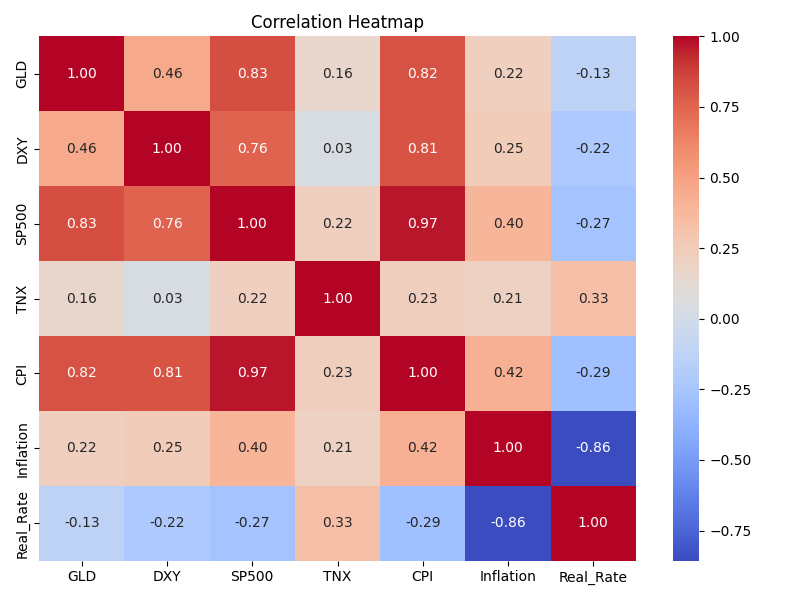
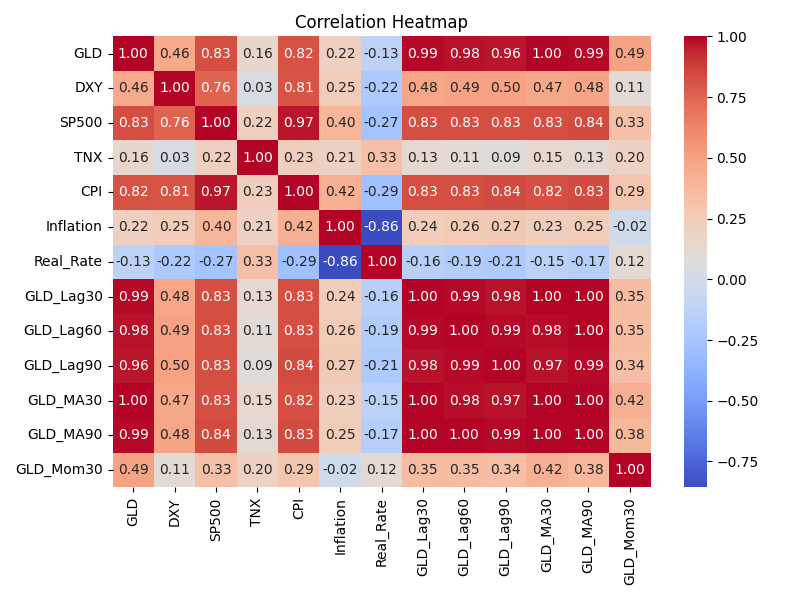
added to main.py and requirement.txt

diff --git a/main.py b/main.py
@@ -1,0 +1,18 @@
+import subprocess
+
+print("Step 1: Downloading raw data...")
+subprocess.run(["python", "src/data_loader.py"])
+
+print("\nStep 2: Processing raw data...")
+subprocess.run(["python", "src/process_data.py"])
+
+print("\nStep 3: Merging and feature engineering...")
+subprocess.run(["python", "src/merge_data.py"])
+
+print("\nStep 4: Running EDA...")
+subprocess.run(["python", "src/eda.py"])
+
+print("\nStep 5: Training model...")
+subprocess.run(["python", "src/model.py"])
+
+print("\nDone!")
